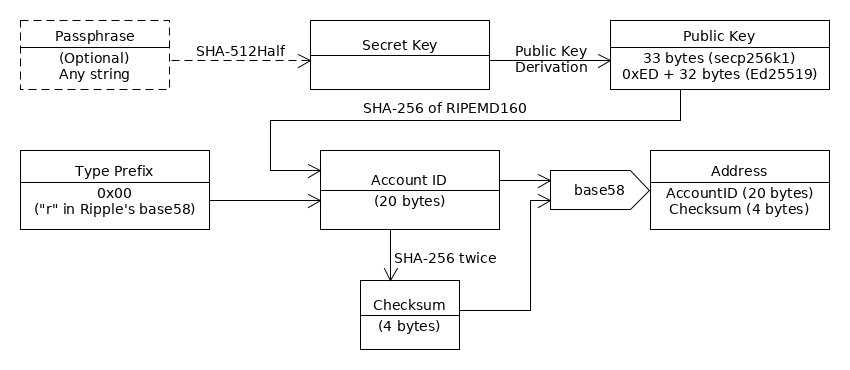
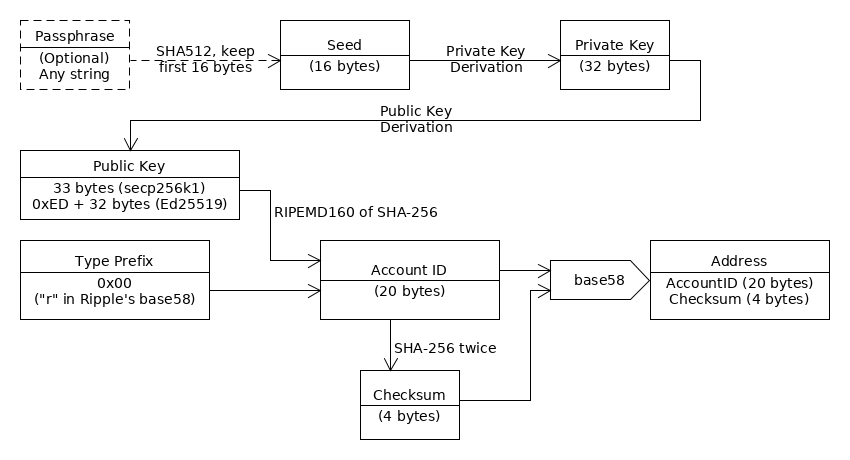
Key derivation clarifications

diff --git a/content/concepts/payment-system-basics/accounts/cryptographic-keys.md b/content/concepts/payment-system-basics/accounts/cryptographic-keys.md
@@ -116,6 +116,58 @@ The supported types of key pairs can be used interchangeably throughout the XRP 
 In the future, it is likely that the XRP Ledger will need new cryptographic signing algorithms to keep up with developments in cryptography. For example, if quantum computers using [Shor's algorithm](https://en.wikipedia.org/wiki/Shor's_algorithm) (or something similar) will soon be practical enough to break elliptic curve cryptography, XRP Ledger developers can add a cryptographic signing algorithm that isn't easily broken. As of mid 2019, there's no clear first choice "quantum-resistant" signing algorithm and quantum computers are not yet practical enough to be a threat, so there are no immediate plans to add any specific algorithms. <!-- STYLE_OVERRIDE: will -->
 
 
+## Key Derivation
+
+The process of deriving a key pair depends on the signing algorithm. In all cases, keys are generated from a _seed_ value that is 16 bytes (128 bits) in length. The seed value can be completely random (recommended) or it can be derived from a specific passphrase by taking the [SHA-512 hash][Hash] and keeping the first 16 bytes (similar to [SHA-512Half][], but keeping only 128 bits instead of 256 bits of the output).
+
+### Ed25519 Key Derivation
+[[Source]](https://github.com/ripple/rippled/blob/fc7ecd672a3b9748bfea52ce65996e324553c05f/src/ripple/protocol/impl/SecretKey.cpp#L203 "Source")
+
+All 32-byte numbers are valid Ed25519 private keys, so Ed25519 private key derivation is a single step:
+
+- Calculate the [SHA-512Half][] of the seed value. The result is the 32-byte private key.
+
+To calculate an Ed25519 public key, use the standard public key derivation for [Ed25519](https://ed25519.cr.yp.to/software.html) to derive the public key. (As always with cryptographic algorithms, use a standard, well-known, publicly-audited implementation whenever possible. For example, [OpenSSL](https://www.openssl.org/) has implementations of core Ed25519 and secp256k1 functions.)
+
+### secp256k1 Key Derivation
+
+Key derivation for secp256k1 XRP Ledger keys involves more steps than Ed25519 key derivation for a couple reasons:
+
+- Not all 32-byte numbers are valid secp256k1 private keys.
+- The XRP Ledger's reference implementation has an unused, incomplete framework for deriving a family of key pairs from a single seed value.
+
+The steps to derive a valid secp256k1 private key from a seed value are as follows:
+
+1. Calculate a "root key pair" from the seed value, as follows:
+
+    1. Concatenate the following in order, for a total of 20 bytes:
+        - The seed value (16 bytes)
+        - A "root sequence" value (4 bytes), as a big-endian unsigned integer. Use 0 as a starting value for the root sequence.
+
+    2. Calculate the [SHA-512Half][] of the concatenated (seed+root sequence) value.
+
+    3. If the result is not a valid secp265k1 private key, increment the root sequence by 1 and start over. [[Source]](https://github.com/ripple/rippled/blob/fc7ecd672a3b9748bfea52ce65996e324553c05f/src/ripple/crypto/impl/GenerateDeterministicKey.cpp#L103 "Source")
+
[1 lines of base64/hex data omitted]
+
+    4. With a valid secp256k1 private key, use the standard ECDSA public key derivation with the secp256k1 curve to derive the root public key. (As always with cryptographic algorithms, use a standard, well-known, publicly-audited implementation whenever possible. For example, [OpenSSL](https://www.openssl.org/) has implementations of core Ed25519 and secp256k1 functions.)
+
+2. Derive an intermediate key pair from the root public key you calculated in step 1, as follows:
+
+    1. Concatenate the following in order, for a total of 40 bytes:
+        - The root public key (32 bytes)
+        - `0x00000000000000000000000000000000` (4 bytes of zeroes). (This value was intended to be used to derive different members of the same family, but in practice only the value 0 is used.)
+        - A "key sequence" value (4 bytes), as a big-endian unsigned integer. Use 0 as a starting value for the key sequence.
+
+    2. Calculate the [SHA-512Half][] of the concatenated value.
+
+    3. If the result is not a valid secp265k1 private key, increment the key sequence by 1 and restart deriving the account's intermediate key pair.
+
+    4. With a valid secp256k1 private key, use the standard ECDSA public key derivation with the secp256k1 curve to derive the intermediate public key. (As always with cryptographic algorithms, use a standard, well-known, publicly-audited implementation whenever possible. For example, [OpenSSL](https://www.openssl.org/) has implementations of core Ed25519 and secp256k1 functions.)
+
+3. Calculate the sum of the root public key and the intermediate public key. The result is the master public key. ***TODO: which private key do you use?***
+
+
 ## See Also
 
 - **Concepts:**

diff --git a/content/references/rippled-api/ledger-data-formats/ledger-object-types/accountroot.md b/content/references/rippled-api/ledger-data-formats/ledger-object-types/accountroot.md
@@ -42,7 +42,7 @@ The `AccountRoot` object has the following fields:
 | `Domain`                      | String    | VariableLength    | _(Optional)_ A domain associated with this account. In JSON, this is the hexadecimal for the ASCII representation of the domain. |
 | `EmailHash`                   | String    | Hash128           | _(Optional)_ The md5 hash of an email address. Clients can use this to look up an avatar through services such as [Gravatar](https://en.gravatar.com/). |
 | `MessageKey`                  | String    | VariableLength    | _(Optional)_ A public key that may be used to send encrypted messages to this account. In JSON, uses hexadecimal. No more than 33 bytes. |
-| `RegularKey`                  | String    | AccountID         | _(Optional)_ The address of a keypair that can be used to sign transactions for this account instead of the master key. Use a [SetRegularKey transaction][] to change this value. |
+| `RegularKey`                  | String    | AccountID         | _(Optional)_ The address of a [key pair](cryptographic-keys.html) that can be used to sign transactions for this account instead of the master key. Use a [SetRegularKey transaction][] to change this value. |
 | `TickSize`                    | Number    | UInt8             | _(Optional)_ How many significant digits to use for exchange rates of Offers involving currencies issued by this address. Valid values are `3` to `15`, inclusive. _(Requires the [TickSize amendment][].)_ |
 | `TransferRate`                | Number    | UInt32            | _(Optional)_ A [transfer fee](https://ripple.com/knowledge_center/transfer-fees/) to charge other users for sending currency issued by this account to each other. |
 | `WalletLocator`               | String    | Hash256           | _(Optional)_ **DEPRECATED**. Do not use. |

diff --git a/content/concepts/payment-system-basics/accounts/accounts.md b/content/concepts/payment-system-basics/accounts/accounts.md
@@ -93,9 +93,9 @@ XRP Ledger addresses are encoded using [base58](https://en.wikipedia.org/wiki/Ba
 
 The following diagram shows the relationship between keys and addresses:
 
-![Passphrase → Secret Key → Public Key + Type Prefix → Account ID + Checksum → Address](img/key-address-rels.png)
+![Passphrase → Seed → Private Key → Public Key + Type Prefix → Account ID + Checksum → Address](img/key-address-rels.png)
 
-The formula for calculating an XRP Ledger address is as follows. For the complete example code, see [`encode_address.js`](https://github.com/ripple/ripple-dev-portal/blob/master/content/_code-samples/address_encoding/encode_address.js).
+The formula for calculating an XRP Ledger address from a public key is as follows. For the complete example code, see [`encode_address.js`](https://github.com/ripple/ripple-dev-portal/blob/master/content/_code-samples/address_encoding/encode_address.js). For the process of deriving a public key from a passphrase or seed value, see [Key Derivation](cryptographic-keys.html#key-derivation).
 
 1. Import required algorithms: SHA-256, RIPEMD160, and base58. Set the dictionary for base58.
 

diff --git a/content/references/rippled-api/admin-rippled-methods/status-and-debugging-methods/peers.md b/content/references/rippled-api/admin-rippled-methods/status-and-debugging-methods/peers.md
@@ -377,7 +377,7 @@ The response follows the [standard format][], with a successful result containin
 | `cluster` | Object | Summary of other `rippled` servers in the same cluster, if [configured as a cluster](clustering.html). [New in: rippled 0.30.1][] |
 | `peers`   | Array  | Array of peer objects.                                  |
 
-Each field of the `cluster` object is the public key of that `rippled` server's identifying keypair. (This is the same value that that server returns as `pubkey_node` in the [server_info method][].) The contents of that field are an object with the following fields:
+Each field of the `cluster` object is the public key of that `rippled` server's identifying key pair. (This is the same value that that server returns as `pubkey_node` in the [server_info method][].) The contents of that field are an object with the following fields:
 
 | `Field` | Type   | Description                                               |
 |:--------|:-------|:----------------------------------------------------------|
